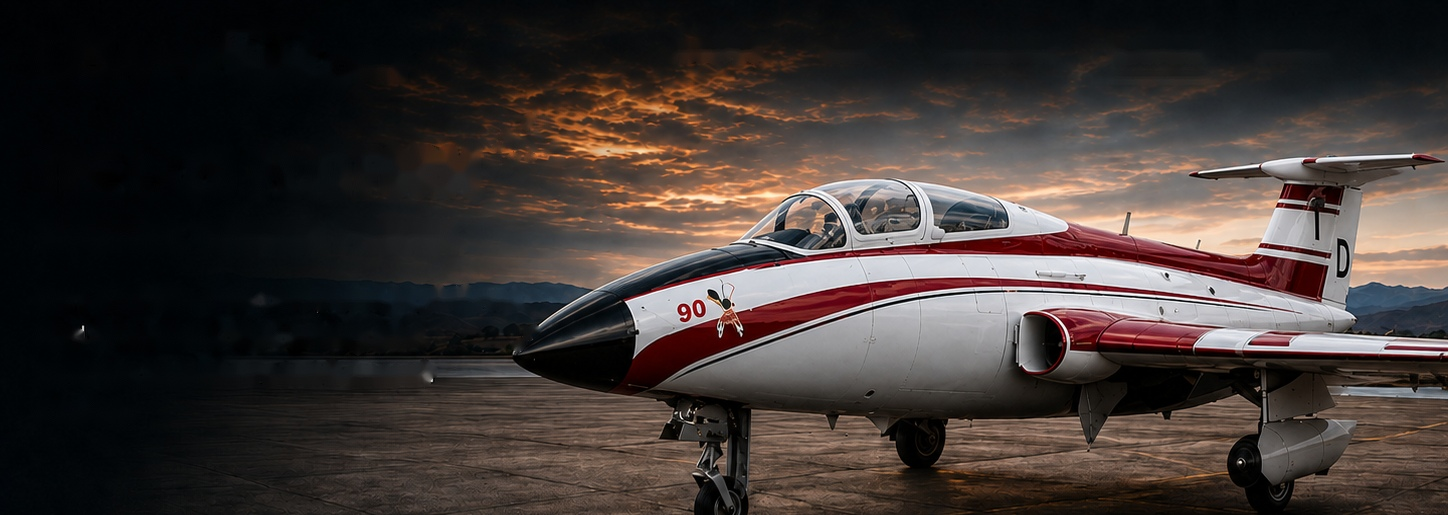
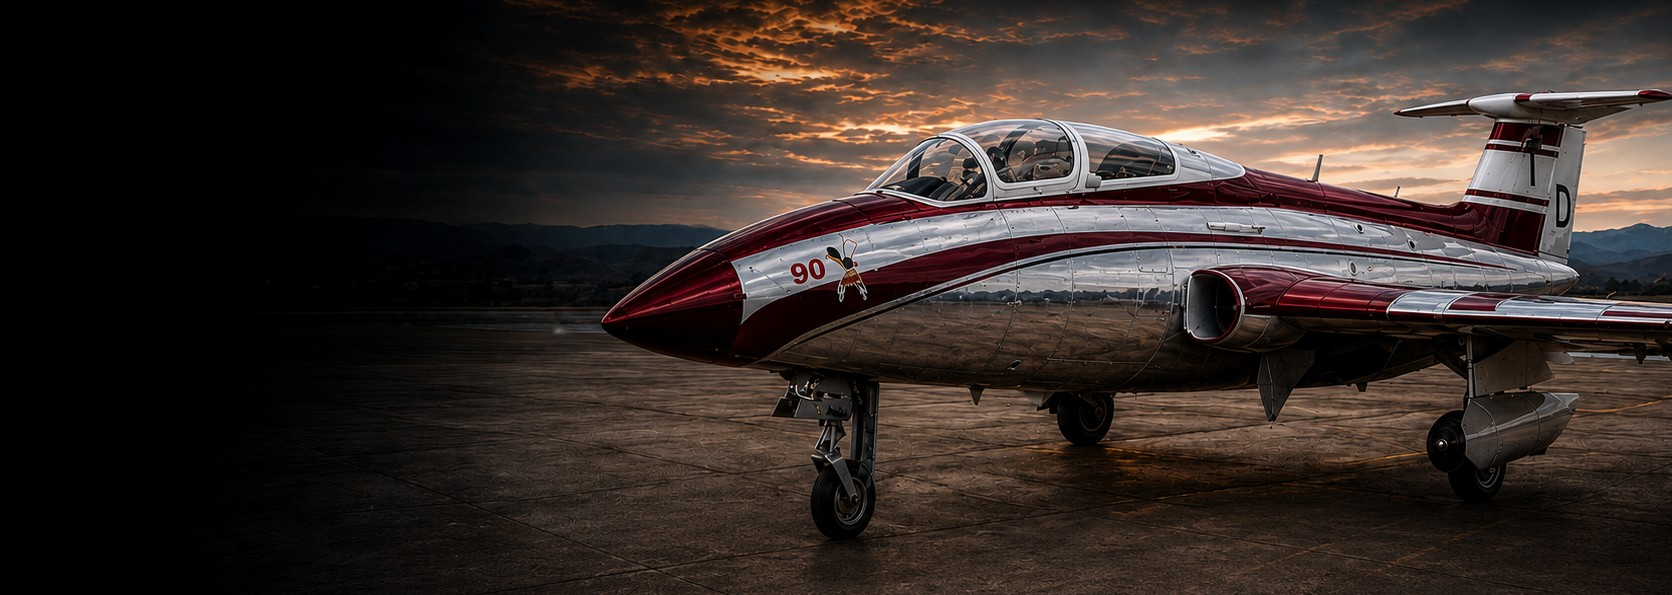
Replace platform hero image with new chrome L-29 photo

diff --git a/platform.html b/platform.html
@@ -11,7 +11,7 @@
   <link rel="apple-touch-icon" href="apple-touch-icon.png" />
   <link rel="preload" href="assets/fonts/oswald-latin.woff2" as="font" type="font/woff2" crossorigin />
   <link rel="preload" href="assets/fonts/inter-latin.woff2" as="font" type="font/woff2" crossorigin />
-  <link rel="preload" href="assets/img/platform-hero.jpg?v=77" as="image" />
+  <link rel="preload" href="assets/img/platform-hero.jpg?v=78" as="image" />
   <link rel="stylesheet" href="css/styles.css?v=72" />
 </head>
 <body>
@@ -45,7 +45,7 @@
 
     <!-- ---------- HERO ---------- -->
     <section class="plat-hero">
-      <img class="plat-hero-img" src="assets/img/platform-hero.jpg?v=77" alt="THE L-29 PLATFORM — Training, Testing, Proven. Our L-29 Delfín aircraft are proven jet platforms ideal for advanced flight training, pilot transition, and airborne test & research missions." />
+      <img class="plat-hero-img" src="assets/img/platform-hero.jpg?v=78" alt="THE L-29 PLATFORM — Training, Testing, Proven. Our L-29 Delfín aircraft are proven jet platforms ideal for advanced flight training, pilot transition, and airborne test & research missions." />
       <div class="container plat-hero-inner">
         <h1 class="page-title hero-title">THE L-29 PLATFORM</h1>
         <p class="plat-tagline">TRAINING<span class="dot">.</span> TESTING<span class="dot">.</span> PROVEN<span class="dot">.</span></p>